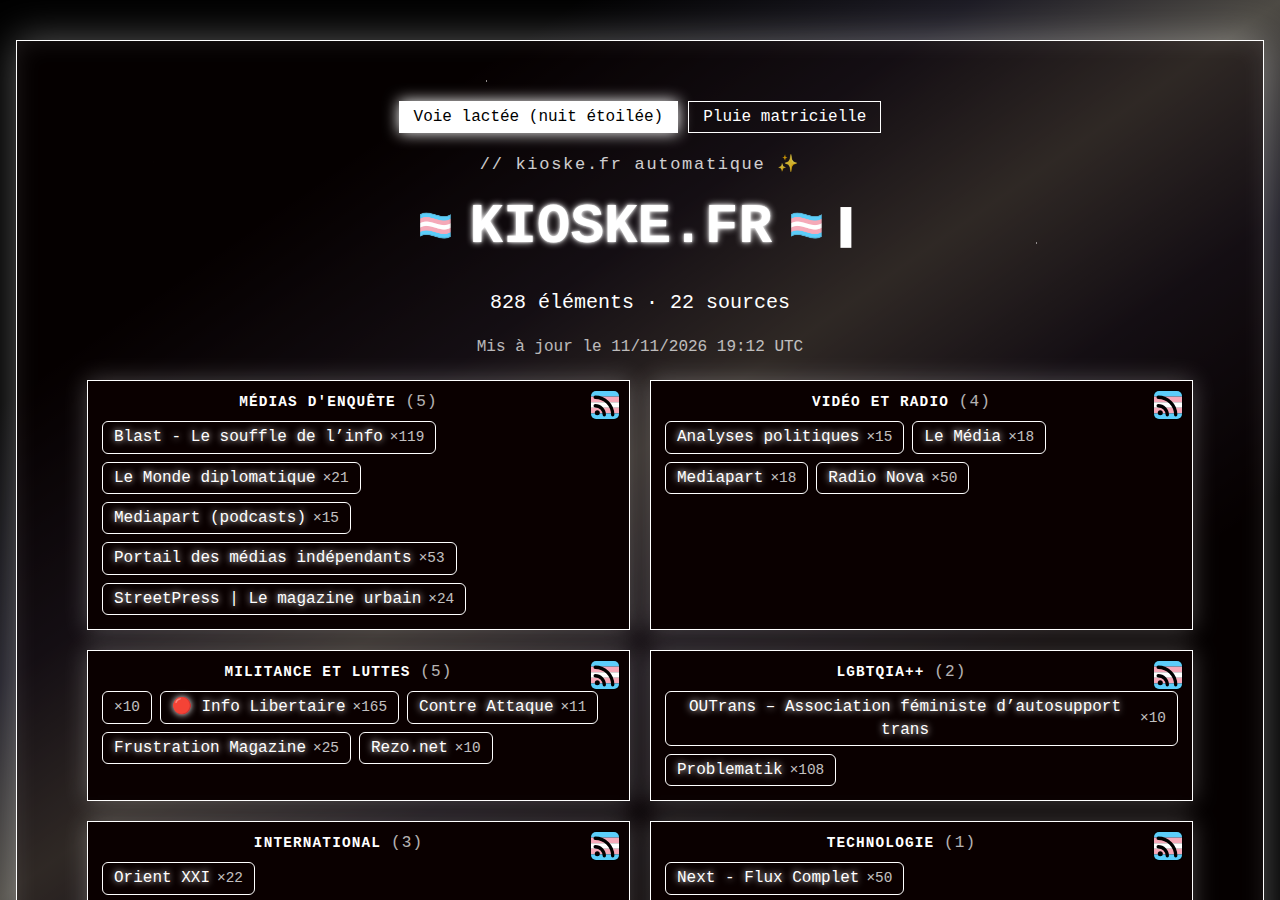
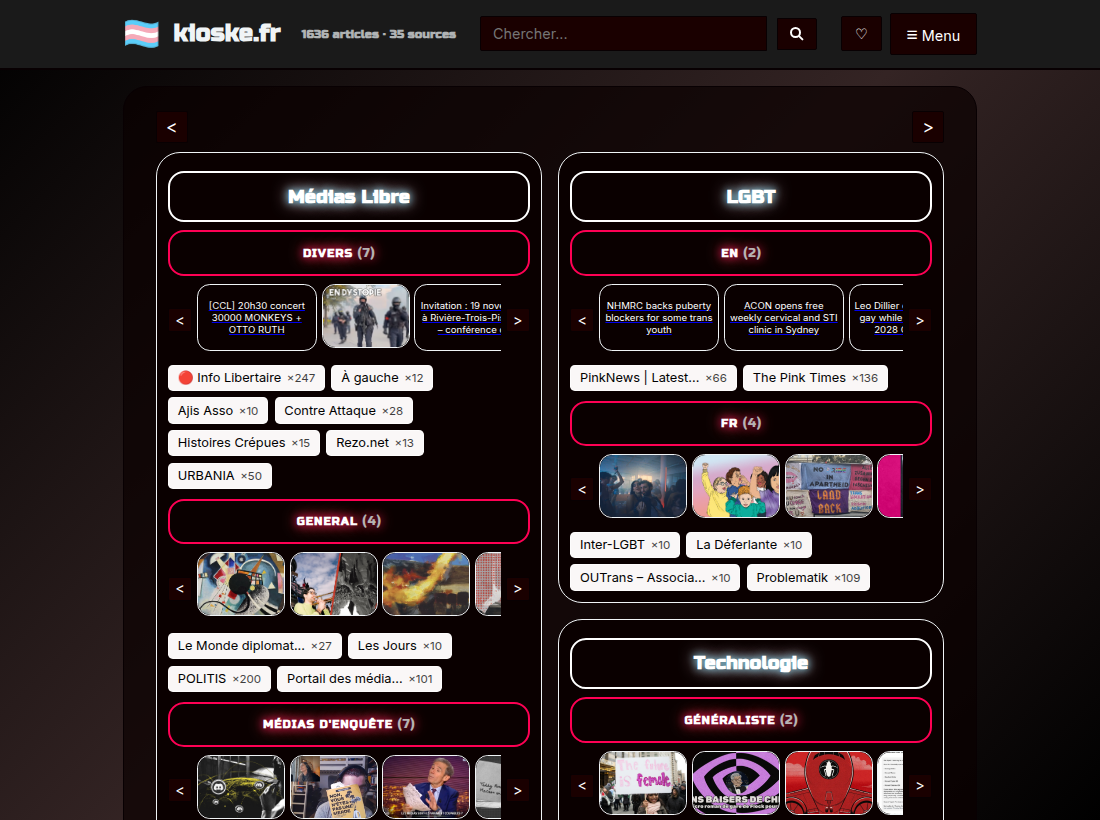
maj dispo legales, et README

diff --git a/tests/captures_readme.js b/tests/captures_readme.js
@@ -1,0 +1,55 @@
+// Captures pour le README (docs/img/). À relancer quand l'interface change :
+//   site servi sur http://127.0.0.1:8000 (python3 -m http.server 8000 -d build), puis : node tests/captures_readme.js
+const { chromium } = require('@playwright/test');
+const fs = require('fs');
+const path = require('path');
+
+const DOCS = path.join(__dirname, '..', 'docs', 'img');
+const BASE = process.env.KIOSKE_URL || 'http://127.0.0.1:8000';
+const CHROMIUM = process.env.KIOSKE_CHROMIUM || (fs.existsSync('/usr/bin/chromium') ? '/usr/bin/chromium' : undefined);
+
+async function ouvrir(browser, { largeur, hauteur, theme }) {
+  const ctx = await browser.newContext({ viewport: { width: largeur, height: hauteur }, reducedMotion: 'reduce', deviceScaleFactor: 1 });
+  await ctx.addInitScript((t) => { try { localStorage.setItem('kioske-theme', t); } catch (e) {} }, theme);
+  // Images réelles des sources (pour la documentation). Si le réseau manque, la lettre de repli s'affiche.
+  const page = await ctx.newPage();
+  await page.goto(BASE + '/', { waitUntil: 'load' });
+  await page.addStyleTag({ content: '#pluie { display: none !important; }' });
+  await page.evaluate(() => document.fonts.ready);
+  await page.waitForLoadState('networkidle');
+  return { ctx, page };
+}
+
+(async () => {
+  const browser = await chromium.launch({ executablePath: CHROMIUM });
+  try {
+    // 1. Accueil, bureau, thème par défaut
+    let { ctx, page } = await ouvrir(browser, { largeur: 1100, hauteur: 820, theme: 'default' });
+    await page.screenshot({ path: path.join(DOCS, 'kioske-accueil.png') });
+    console.log('accueil');
+
+    // 2. Menu ≡ ouvert
+    await page.click('#btn-menu');
+    await page.waitForSelector('#navbar-menu[style*="block"]');
+    await page.screenshot({ path: path.join(DOCS, 'kioske-menu.png') });
+    console.log('menu');
+    await ctx.close();
+
+    // 3. Panneau d'une source : cartes d'articles
+    ({ ctx, page } = await ouvrir(browser, { largeur: 1100, hauteur: 820, theme: 'default' }));
+    await page.locator('.nuage .tag').first().click();
+    await page.waitForSelector('.categorie-container:not([hidden])');
+    await page.waitForTimeout(1500);   // le temps que les vignettes se chargent
+    await page.screenshot({ path: path.join(DOCS, 'kioske-cartes.png') });
+    console.log('panneau source');
+    await ctx.close();
+
+    // 4. Thème violet, téléphone (responsive)
+    ({ ctx, page } = await ouvrir(browser, { largeur: 390, hauteur: 844, theme: 'purple_neon' }));
+    await page.screenshot({ path: path.join(DOCS, 'kioske-theme-violet-telephone.png') });
+    console.log('violet téléphone');
+    await ctx.close();
+  } finally {
+    await browser.close();
+  }
+})().catch((e) => { console.error(e); process.exit(1); });

diff --git a/static/dispositions-legales.html b/static/dispositions-legales.html
@@ -70,7 +70,7 @@
     <h2>Éditeur du site</h2>
     <p>Site édité par <strong>zarisse</strong>, pseudonyme. L'identité de l'éditeur est communiquée à l'hébergeur
       ci-dessous, conformément à la loi pour la confiance dans l'économie numérique.</p>
-    <p>Contact : browse-glitzy-fled@duck.com.</p>
+    <p>Contact : contact@kioske.fr.</p>
 
     <h2>Hébergement</h2>
     <p>Le site est hébergé par IONOS SARL, 7 place de la Gare, BP 70109, 57200 Sarreguemines Cedex, France.</p>

diff --git a/README.md b/README.md
@@ -15,12 +15,20 @@ et documentation.
 
 Projet autonome depuis le 2026-11-11, réorganisé depuis : code dans le paquet `kioske/`, site généré dans `build/`, réglages dans `kioske.cfg`. Voir l'historique git pour les modifications détaillées.
 
-<p align="center"><img src="docs/img/kioske-accueil.png" width="640" alt="Page d'accueil : choix du thème, titre, et étiquettes des sources rangées par catégorie"></p>
+<p align="center"><img src="docs/img/kioske-accueil.png" width="640" alt="Page d'accueil, thème par défaut : titre, recherche, et étiquettes des sources rangées par catégorie"></p>
+
+Le menu ≡ regroupe les thèmes, le mode sobre, la personnalisation des flux, l'installation, les ressources et les réseaux.
+
+<p align="center"><img src="docs/img/kioske-menu.png" width="640" alt="Menu ≡ ouvert : thèmes, mode sobre, personnaliser flux, installer l'app, ressources, flux RSS, Discord, Mastodon, code de conduite"></p>
 
 Cliquer sur une étiquette ouvre le panneau de la source, avec une carte par article. Cliquer sur une
 carte ouvre l'article par-dessus la page, au format « carte à jouer » (texte du flux, lien vers l'original).
 
 <p align="center"><img src="docs/img/kioske-cartes.png" width="640" alt="Fenêtre d'une source : une carte par article, avec image, date, titre et extrait"></p>
+
+Sur téléphone, la mise en page s'adapte, et chaque thème a ses couleurs (ici le thème violet).
+
+<p align="center"><img src="docs/img/kioske-theme-violet-telephone.png" width="300" alt="Accueil sur téléphone, thème violet"></p>
 
 ### Aperçu : effet shiny
 
